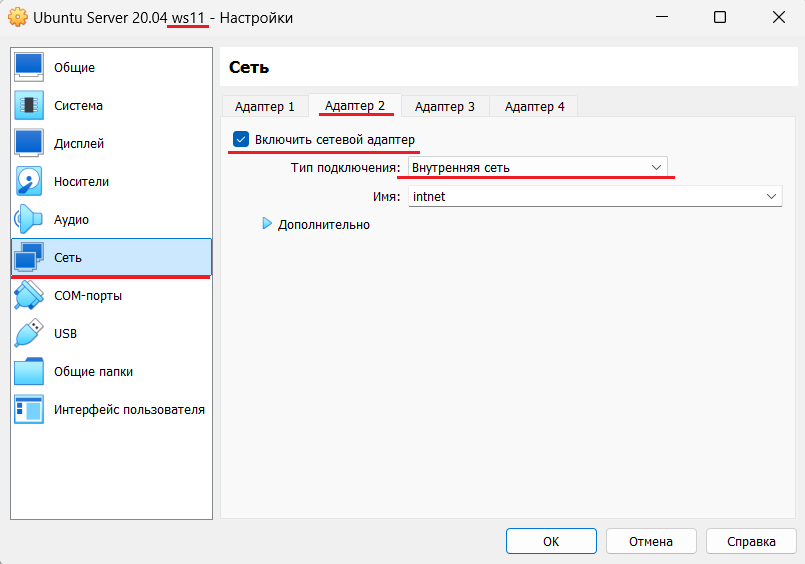
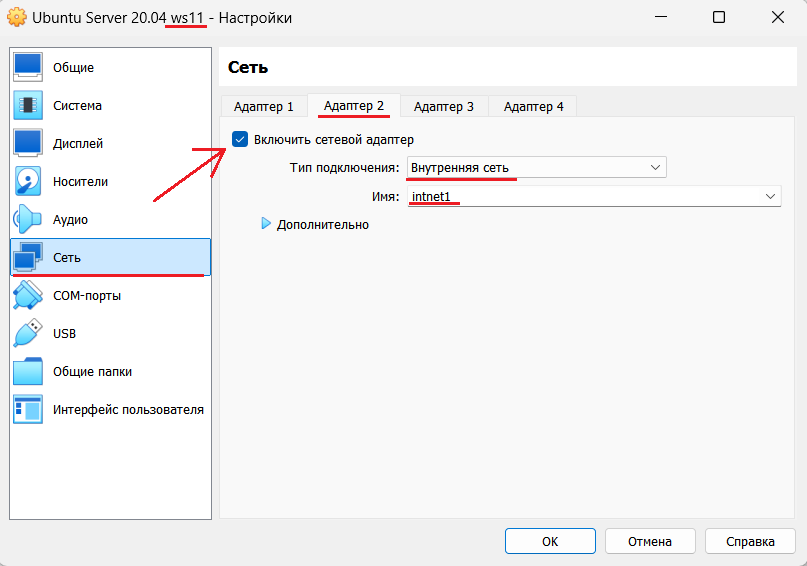
Part 5.6

diff --git a/src/Linux_D02.md b/src/Linux_D02.md
@@ -256,7 +256,7 @@
 | Адрес (IPv4): | 127.0.0.1/8.   | 
 | Адрес (IPv6):       | ::1/128. |
 
-  - enp0s3 (Ethernet Interface):
+  - - enp0s3 (Ethernet Interface):
 
 | Состояние:    | UP. | 
 |---------------|-----------------------------------|
@@ -282,7 +282,7 @@
 | Адрес (IPv4): | 127.0.0.1/8.   | 
 | Адрес (IPv6): | ::1/128.   |
 
-  - enp0s3 (Ethernet Interface):
+  - - enp0s3 (Ethernet Interface):
 
 | Состояние:    | UP. | 
 |---------------|-----------------------------------|
@@ -669,28 +669,43 @@ iptables -A OUTPUT -p icmp --icmp-type echo-reply -j DROP
 >
 > ![Добавление нового интерфейса в VB ws11](screen%2Fscreen_5_02.png)
 >
+> Имя внутренней сети указал `intnet1`, которая будет соответствовать 10.10.0.0/18
+>
 
 > Добавление нового интерфейса в VB **ws21**:
 >
 > ![Добавление нового интерфейса в VB ws21](screen%2Fscreen_5_03.png)
+>
+> Имя внутренней сети указал `intnet3`, которая будет соответствовать 10.20.0.0/26
 >
 
 > Добавление нового интерфейса в VB **ws22**:
 >
 > ![Добавление нового интерфейса в VB ws22](screen%2Fscreen_5_04.png)
 >
+> Имя внутренней сети указал `intnet3`, которая будет соответствовать 10.20.0.0/26
+>
 
 > Добавление двух новых интерфейсов в VB **r1**:
 >
 > ![Добавление нового интерфейса в VB r1(1)](screen%2Fscreen_5_05.png)
+> Имя внутренней сети указал `intnet1`, которая будет соответствовать 10.10.0.0/18
+>
 > ![Добавление нового интерфейса VB r1(2)](screen%2Fscreen_5_06.png)
+>
+> Имя внутренней сети указал `intnet2`, которая будет соответствовать 10.100.0.0/16
 >
 
 > Добавление двух новых интерфейсов в VB **r2**:
 >
 > ![Добавление нового интерфейса в VB r2(1)](screen%2Fscreen_5_07.png)
+> Имя внутренней сети указал `intnet2`, которая будет соответствовать 10.100.0.0/16
+>
 > ![Добавление нового интерфейса VB r2(2)](screen%2Fscreen_5_08.png)
 >
+> Имя внутренней сети указал `intnet3`, которая будет соответствовать 10.20.0.0/26
+>
+
 **5.1. Настройка адресов машин:**
 - Изменил файл конфигурации *netplan* на **ws11**.
 
@@ -994,7 +1009,7 @@ network: # Основной раздел, который описывает ко
 
 - Выполнил команду `ping 10.100.0.12` на **ws11**.
 
-> Вывод команды `ping 10.100.0.12` (ws21):
+> Вывод команды `ping 10.100.0.12` (ws1tcp1):
 >
 > ![Вывод команды ping 10.100.0.12 ws21](screen%2Fscreen_5_36.png)
 >
@@ -1092,9 +1107,104 @@ network: # Основной раздел, который описывает ко
 > Для адреса 10.10.0.0/18 маршрут, отличается от 0.0.0.0/0, потому что адресация, попадающая в диапазон 10.10.0.0/18, должна быть отправлена через интерфейс enp0s8, по заданными настройкам netplan.
 > 
 > Весь остальной трафик направляется через шлюз 10.10.0.1 по маршруту по умолчанию.
-> 
+>
+
+**5.5. Построение списка маршрутизаторов:**
+- Установил утилиту **traceroute** командой от имени администратора `sudo` `apt install traceroute` на все машины.
+
+> Установка **traceroute**:
+>
+> ![Установка traceroute](screen%2Fscreen_5_43.png)
+>
+
+- Выполнил команду от имени администратора `sudo` `tcpdump -tnv -i enp0s8` на **r1**.
+
+> Вывод команды `sudo tcpdump -tnv -i enp0s8` (r1):
+>
+> ![Вывод команды sudo tcpdump -tnv -i enp0s8 r1](screen%2Fscreen_5_44.png)
+>
+
+<details><summary>Флаги команды</summary>
+
+-
+  - Флаг `-t`: убирает временные метки (timestamps) из вывода.
+  - Флаг `-n`: отключает преобразование IP-адресов в доменные имена.
+  - Флаг `-v`: включает "verbose" режим, предоставляя более подробную информацию о каждом пакете.
+  - Флаг `-i`: указывает, на каком сетевом интерфейсе захватывать трафик. Вместо <interface> нужно подставить имя интерфейса, например, `enp0s8`.
+</details>
+
+- Выполнил команду `traceroute 10.20.0.10` на **ws11**.
+
+> Вывод команды `traceroute 10.20.0.10` (ws11):
+>
+> ![Вывод команды traceroute 10.20.0.10 ws11](screen%2Fscreen_5_45.png)
+>
+
+- Принцип работы **traceroute**:
+
+*Утилита traceroute отправляет пакеты с постепенно увеличивающимся значением поля TTL (Time-To-Live) в заголовке IP. TTL определяет количество "хопов" (то есть маршрутизаторов), через которые пакет может пройти, прежде чем будет отброшен.*
+
+*Первый пакет отправляется с TTL = 1, второй с TTL = 2 и так далее. Пакет с TTL = 1 доходит только до первого маршрутизатора на пути, где его TTL уменьшается до 0, и маршрутизатор отбрасывает пакет.*
+
+*Когда маршрутизатор отбрасывает пакет из-за истекшего TTL, он отправляет обратно ICMP сообщение "Time Exceeded" к источнику (машине, которая запустила traceroute).*
+
+*Утилита traceroute отправляет UDP-пакеты с возрастающим значением TTL к целевому адресу, но эти пакеты направляются на порты, которые, как правило, не используются на целевом хосте. В большинстве случаев это порты с номерами, начиная от 33434 и выше.*
+
+*Если на целевом хосте нет процесса, который "слушает" на этом порту, хост отвечает сообщением ICMP "Destination Unreachable" с кодом "Port Unreachable". Это означает, что пакет достиг цели, но целевой порт недоступен для приема данных.*
+
+> Вывод команды `sudo tcpdump -tnv -i enp0s8` на r1, после запуска **traceroute** на ws11:
+>
+> ![Вывод команды sudo tcpdump -tnv -i enp0s8 r1](screen%2Fscreen_5_46.png)
+>
+
+*Traceroute продолжает отправлять пакеты с возрастающим TTL, пока не достигнет конечного узла. Когда пакет достигает целевого хоста, traceroute получает от него либо ICMP "Echo Reply", если использовался ICMP, либо сообщение о достижении цели, если использовался UDP.*
+
+*Утилита traceroute использует эти сообщения, чтобы узнать, через какие маршрутизаторы проходит путь до конечного адресата.*
 
 
+**5.6. Использование протокола ICMP при маршрутизации:**
+- Выполнил команду `ping -c 1 10.30.0.111` на **ws11**, указав отправку 1 пакета.
+
+> Вывод команды `ping -c 1 10.30.0.111` (ws11):
+>
+> ![Вывод команды ping -c 1 10.30.0.111 ws11](screen%2Fscreen_5_47.png)
+>
+
+- Выполнил команду от имени администратора `sudo` `tcpdump -tnv -i enp0s8` на **r1**.
+
+> Вывод команды `sudo tcpdump -tnv -i enp0s8` (r1):
+>
+> ![Вывод команды sudo tcpdump -tnv -i enp0s8 r1](screen%2Fscreen_5_48.png)
+>
+
+*Протокол ICMP (Internet Control Message Protocol) — это сетевой протокол, который используется для передачи сообщений об ошибках и управляющих сообщений в IP-сетях. Он является частью набора протоколов семейства IP и работает на сетевом уровне модели OSI.*
+
+- Сохранил дампы образов виртуальных машин в настройках **Virtual Box**, по аналогии с [заданием 4](#4-сетевой-экран).
+
+> Сохранение дампа образа виртуальной машины в VB ws11:
+>
+> ![Сохранение дампа образа виртуальной машины в VB ws11](screen%2Fscreen_5_49.png)
+>
+
+> Сохранение дампа образа виртуальной машины в VB ws21:
+>
+> ![Сохранение дампа образа виртуальной машины в VB ws21](screen%2Fscreen_5_50.png)
+>
+
+> Сохранение дампа образа виртуальной машины в VB ws22:
+>
+> ![Сохранение дампа образа виртуальной машины в VB ws22](screen%2Fscreen_5_51.png)
+>
+
+> Сохранение дампа образа виртуальной машины в VB r1:
+>
+> ![Сохранение дампа образа виртуальной машины в VB r1](screen%2Fscreen_5_52.png)
+>
+
+> Сохранение дампа образа виртуальной машины в VB r2:
+>
+> ![Сохранение дампа образа виртуальной машины в VB r2](screen%2Fscreen_5_53.png)
+>
 
 ----------------------------------------------------------------------------
 
